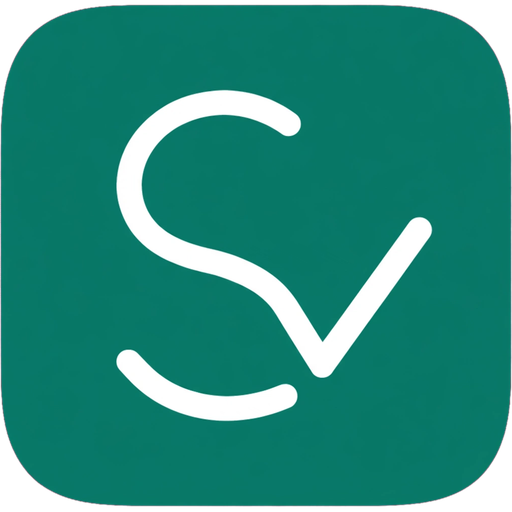
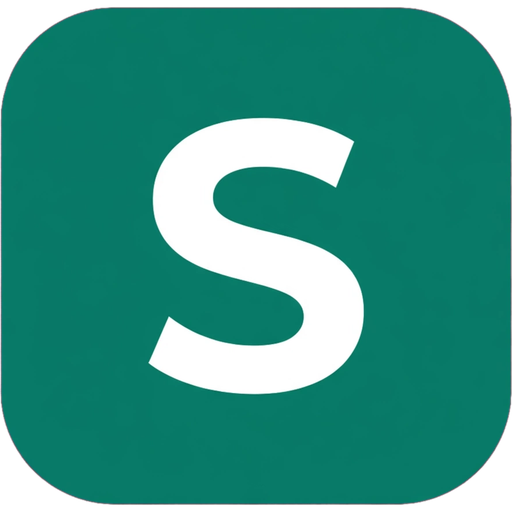
Brand mark: build /brand/mark.png from the plain S, drop the tick variant
public/brand/mark.png and public/brand/logo.png were an S-with-tick
variant, not the brand's plain white S on teal (public/brand/logo-mark.png,
what the live site and the extensions already show). Directories that
pulled /brand/mark.png, and any deployment with NEXT_PUBLIC_BRAND_MARK set
to it, showed the wrong mark.

mark.png is now generated at 512px from logo-mark.png by
scripts/brand-web-assets.mjs, at the same path, so the variable and outside
links keep working. logo.png is removed; the brief that named it now points
at logo-mark.png.

diff --git a/docs/brand/visual-redesign-brief.md b/docs/brand/visual-redesign-brief.md
@@ -47,9 +47,12 @@ inspected.
 - Lucide icons used consistently
 
 ## Logo
-Salsox logo: public/brand/logo.png - green rounded-square mark with a
-white "S" flowing into a checkmark "V". Use this as the brand mark
-across the site (nav, favicon, app icon, email headers).
+Salsox logo: public/brand/logo-mark.png - green rounded-square mark with a
+plain white "S", nothing else. Use this as the brand mark across the site
+(nav, favicon, app icon, email headers). Its web copies, including
+public/brand/mark.png, are built from it by scripts/brand-web-assets.mjs.
+(This brief first named public/brand/logo.png, an "S" flowing into a
+checkmark "V". That variant was replaced by the plain S and the file removed.)
 
 ## CRITICAL constraint
 Do NOT change Salsox's existing page arrangement, positioning,
